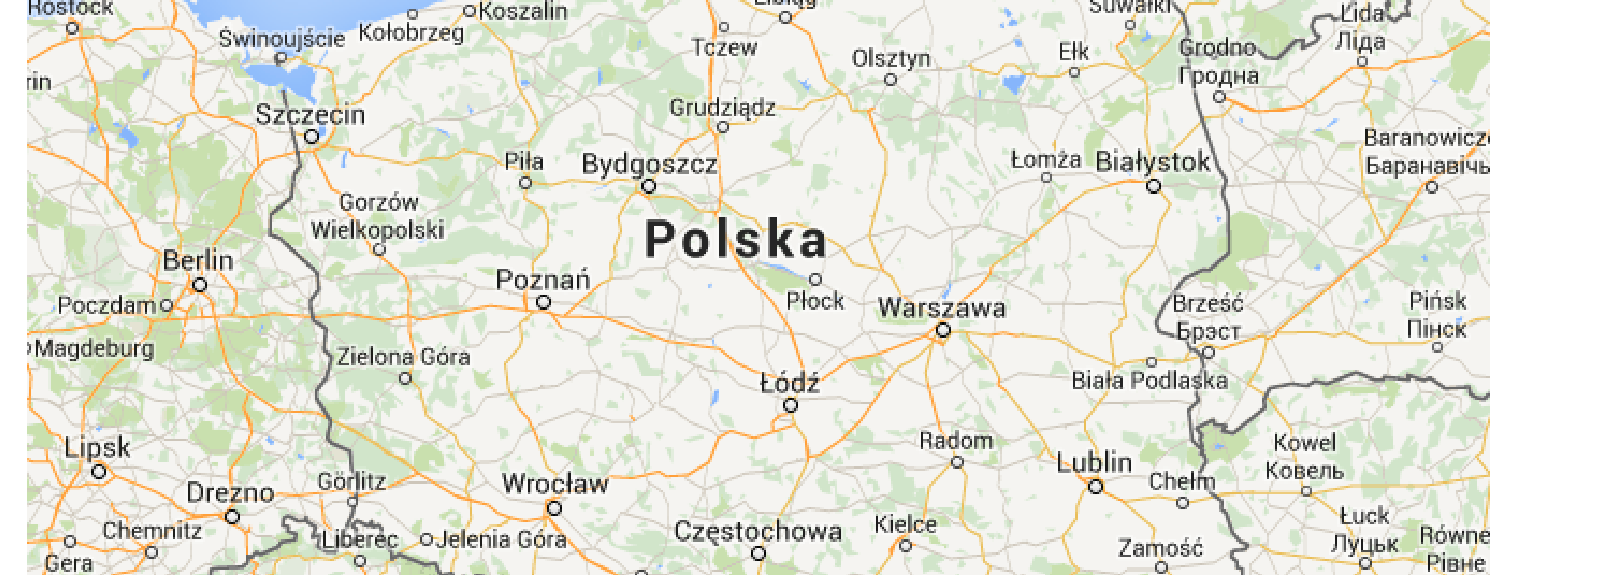
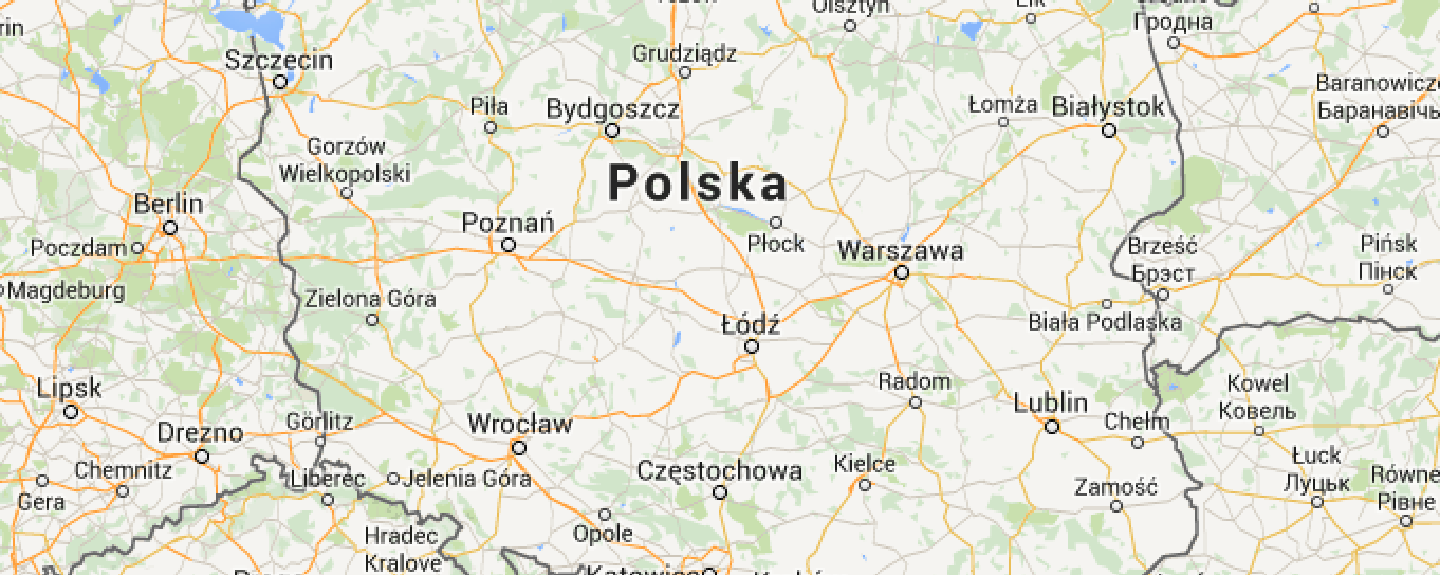
home page done

diff --git a/index.html b/index.html
@@ -204,11 +204,63 @@
           <figcaption>
             <p>DISCOVER</p>
             <h4>WATCH OUR VIDEO</h4>
-            <img src="img/video-underline.svg" alt="">
+            <img src="img/video-underline.svg" alt="" />
           </figcaption>
-          <img src="img/video-top.png" alt="" />
+          <img src="img/play-button.png" alt="" />
         </figure>
       </div>
     </section>
+    <div class="offer">
+      <img src="img/offer-bg.png" alt="" />
+      <div class="offer-details">
+        <h3>Get 10% Off on Your Next Travel</h3>
+        <p>Maximum doscout 1000$ per person</p>
+        <div class="email">
+          <input type="email" value="Email" /><button type="submit">
+            submit
+          </button>
+        </div>
+      </div>
+    </div>
+    <div class="home-map">
+      <img src="img/map.png" alt="" />
+    </div>
+    <bottom-menu>
+      <div class="bottom-menu-menu">
+        <div class="menu-1">
+          <ul>
+            Quick Links
+            <li>Home</li>
+            <li>Things to do</li>
+            <li>Home</li>
+            <li>Home</li>
+          </ul>
+        </div>
+        <div class="menu-1">
+          <ul>
+            Address
+            <li>14, 1 Ellis bridge ST,</li>
+            <li>Auckland 3500, Ethiopia</li>
+            <li>+15 9900 990 009</li>
+            <li>contactus@ethiopia.com</li>
+          </ul>
+        </div>
+      </div>
+      <div class="para-bottom-menu">
+        <p>
+          Subscribe to our <br />
+          News Letter
+        </p>
+        <div class="bottom-menu-search">
+          <input type="text" placeholder="Your Email" />
+          <img src="img/search-v.svg" alt="" />
+        </div>
+      </div>
+    </bottom-menu>
+    <footer>
+      <div class="credits">
+        <p>Techie.io©All Rights Reserved</p>
+      </div>
+    </footer>
   </body>
 </html>

diff --git a/style.css b/style.css
@@ -316,9 +316,10 @@ figure .like img {
 }
 
 #pop img {
-  left: 29vw;
+  left: 30vw;
   top: 3px;
   width: 40%;
+  display: block;
 }
 
 #pop figcaption {
@@ -328,12 +329,81 @@ figure .like img {
 
 #pop figcaption img {
   width: 5%;
-  position: inherit;
+  position: relative;
+  left: 47.5vw;
+  padding: 6px 0px;
+}
+
+@media screen and (max-width: 500px) {
+  #pop figcaption {
+    font-size: 8px;
+  }
+}
+
+.offer img {
+  display: block;
+  position: absolute;
+  width: 100%;
+}
+
+.offer {
+  position: absolute;
+  width: 100%;
+}
+
+.offer-details {
+  position: relative;
+  top: 6vw;
+  color: white;
+}
+
+.offer-details h3,
+p {
+  text-align: center;
+  padding: 5px 0px 0px;
+}
+
+.email {
+  display: flex;
+  justify-content: center;
+  padding: 20px 0px;
+}
+
+.email input {
+  border: none;
+  padding: 10px;
+  border-radius: 15px;
+}
+
+.email button {
+  border: none;
+  padding: 0px 20px;
+  border-radius: 15px;
+}
+
+.home-map {
+  width: 100%;
+}
+
+.home-map img {
+  width: 100%;
+  display: block;
+  height: 50vw;
 }
 
 @media screen and (max-width:500px) {
-  #pop figcaption {
-    font-size: 8px;
+  .email {
+    padding: 3px 0px;
+  }
+  .email input {
+    padding: 3px;
+    width: 30%;
+  }
+  .offer-details {
+    top: 2vw;
+  }
+  .email button {
+    padding: 0px 10px;
   }
   
 }
